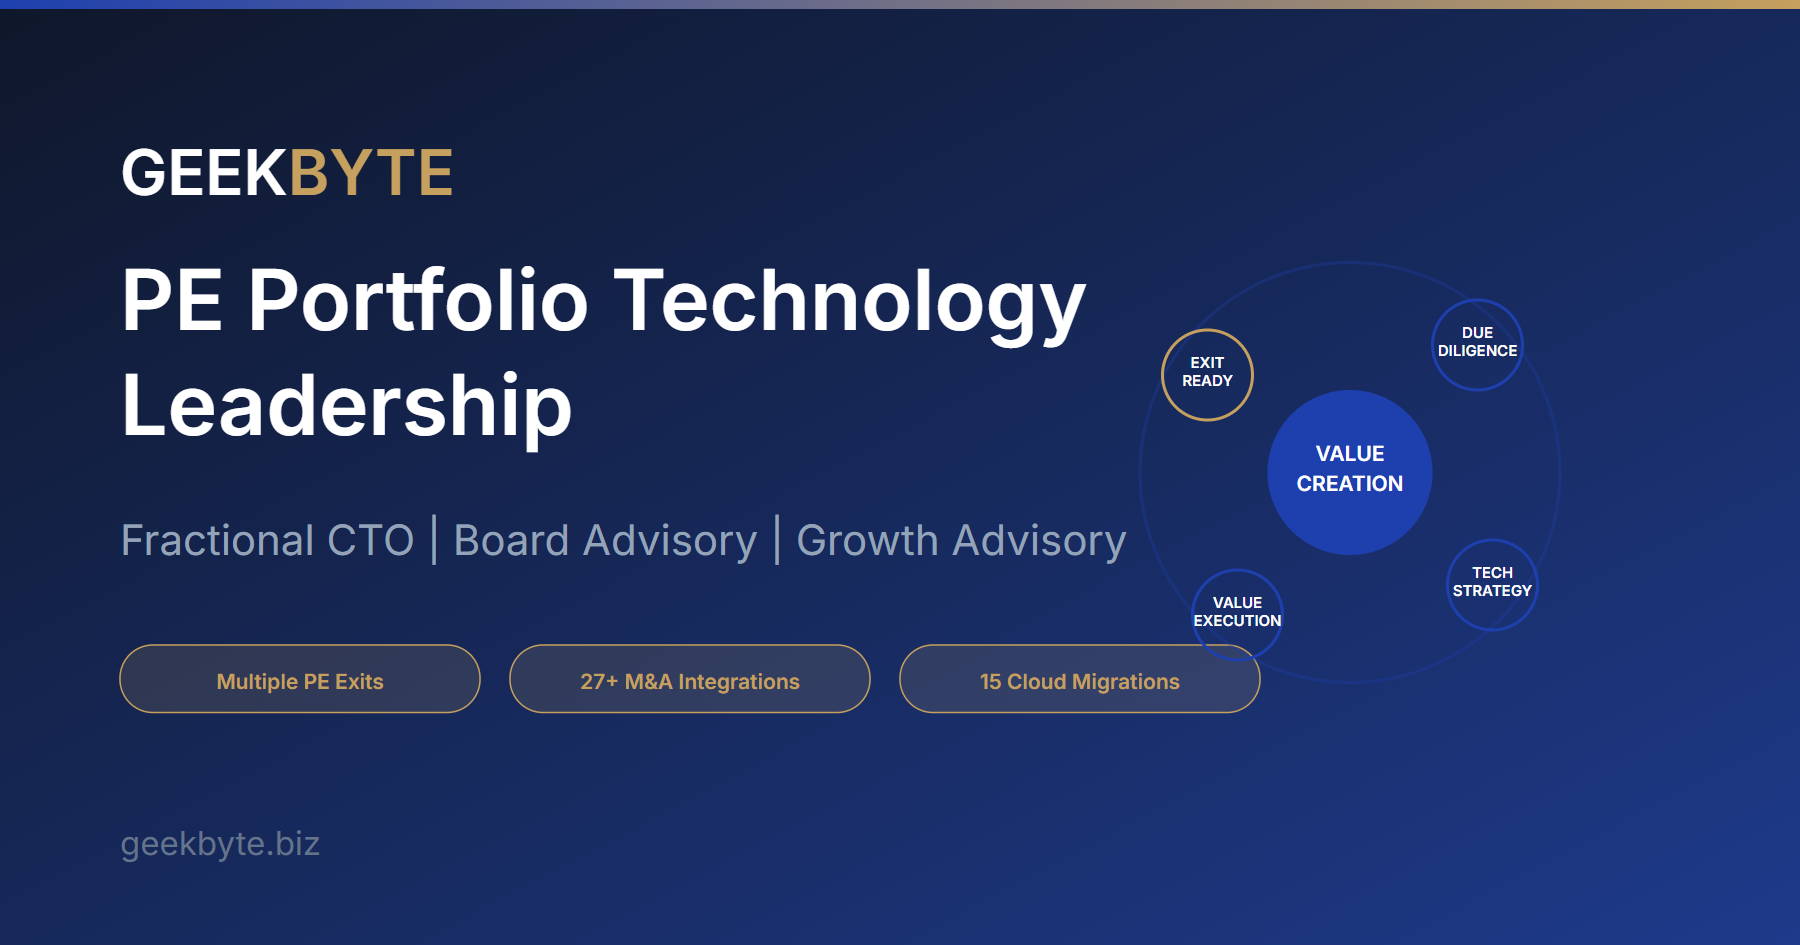
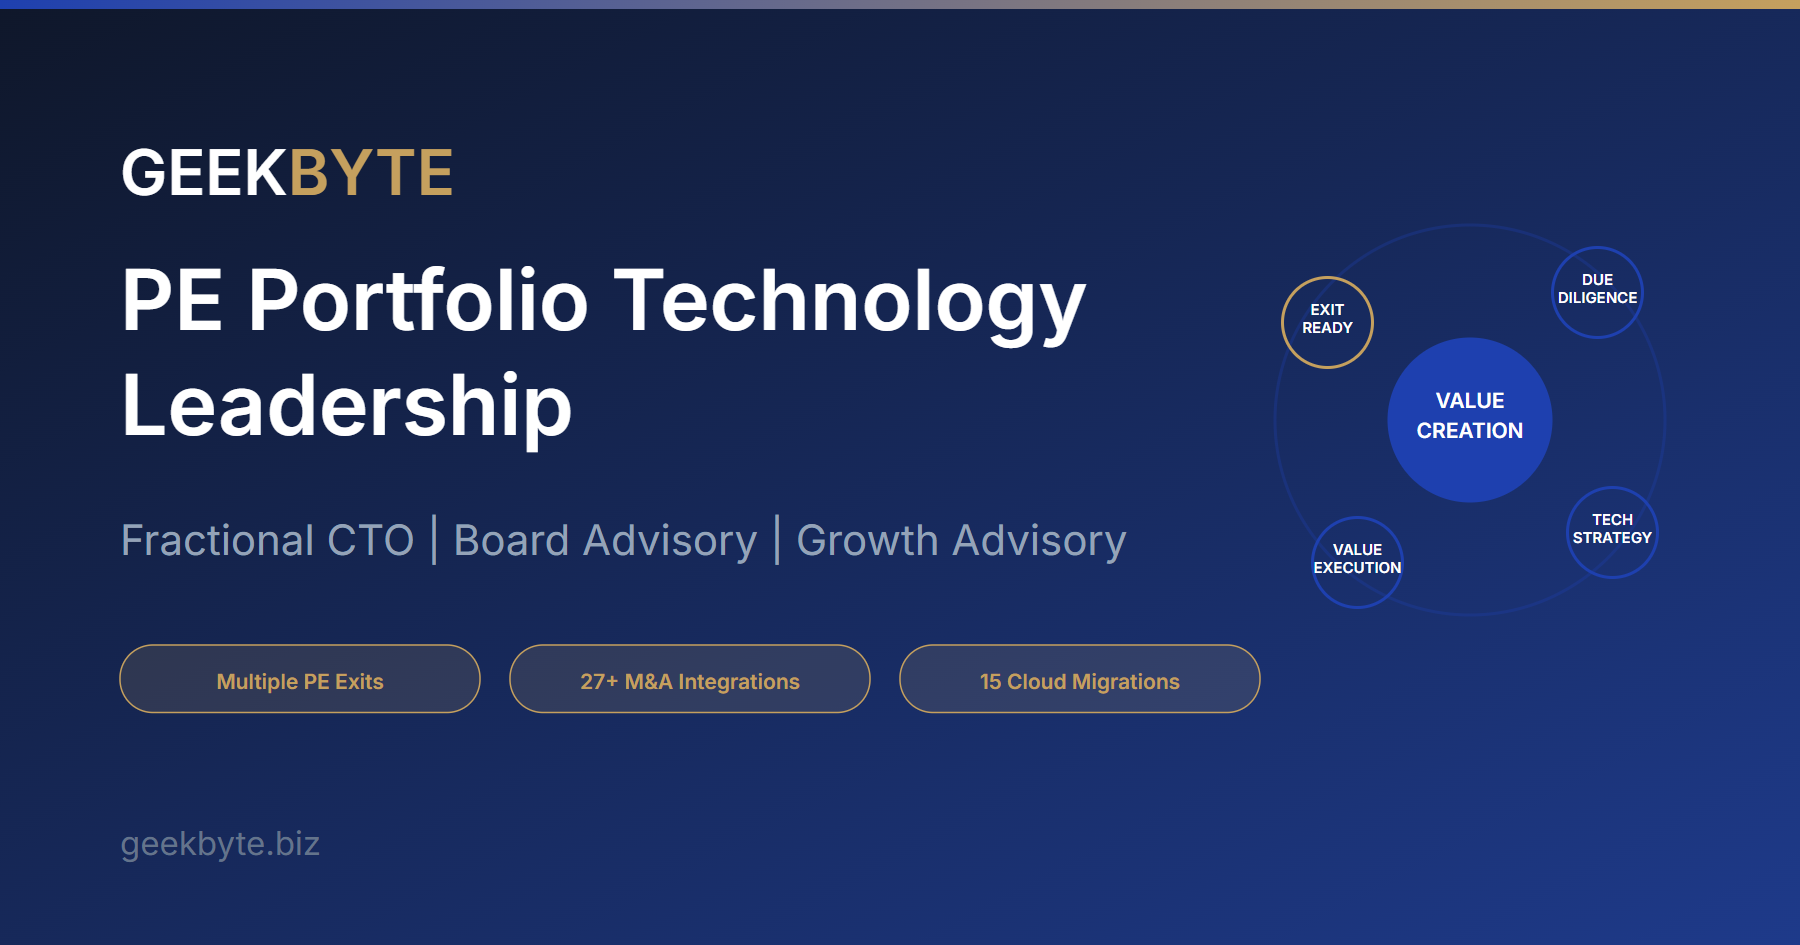
Fix OG image layout - move graphic to prevent badge overlap
- Repositioned value cycle graphic from (900, 315) to (980, 280)
- Reduced graphic radius from 140 to 130 for better proportions
- Updated PNG export with corrected layout
- Added og-image-export.html helper tool for future exports

🤖 Generated with [Claude Code](https://claude.com/claude-code)

diff --git a/og-image-export.html b/og-image-export.html
@@ -1,0 +1,77 @@
+<!DOCTYPE html>
+<html lang="en">
+<head>
+    <meta charset="UTF-8">
+    <meta name="viewport" content="width=device-width, initial-scale=1.0">
+    <title>Export OG Image to PNG</title>
+    <style>
+        body {
+            font-family: Inter, sans-serif;
+            padding: 20px;
+            background: #1e293b;
+            color: white;
+        }
+        .instructions {
+            max-width: 800px;
+            margin: 0 auto 20px;
+        }
+        .preview {
+            border: 2px solid #c5a05e;
+            margin: 20px auto;
+            display: block;
+        }
+        button {
+            background: #1e40af;
+            color: white;
+            border: none;
+            padding: 12px 24px;
+            font-size: 16px;
+            cursor: pointer;
+            border-radius: 6px;
+            margin: 10px;
+        }
+        button:hover {
+            background: #1e3a8a;
+        }
+        #canvas {
+            display: none;
+        }
+    </style>
+</head>
+<body>
+    <div class="instructions">
+        <h1>OG Image Export Tool</h1>
+        <p>This page helps you export the Open Graph image as a PNG file for social sharing.</p>
+        <p><strong>Instructions:</strong></p>
+        <ol>
+            <li>Click "Download PNG" to save the image</li>
+            <li>Upload the og-image.png to your images folder</li>
+            <li>The meta tags already reference images/og-image.png</li>
+        </ol>
+    </div>
+
+    <img src="images/og-image.svg" class="preview" id="svgImage" width="1200" height="630">
+    <canvas id="canvas" width="1200" height="630"></canvas>
+
+    <div style="text-align: center;">
+        <button onclick="downloadPNG()">Download PNG</button>
+    </div>
+
+    <script>
+        function downloadPNG() {
+            const canvas = document.getElementById('canvas');
+            const ctx = canvas.getContext('2d');
+            const img = document.getElementById('svgImage');
+
+            // Draw SVG to canvas
+            ctx.drawImage(img, 0, 0, 1200, 630);
+
+            // Convert to PNG and download
+            const link = document.createElement('a');
+            link.download = 'og-image.png';
+            link.href = canvas.toDataURL('image/png');
+            link.click();
+        }
+    </script>
+</body>
+</html>
